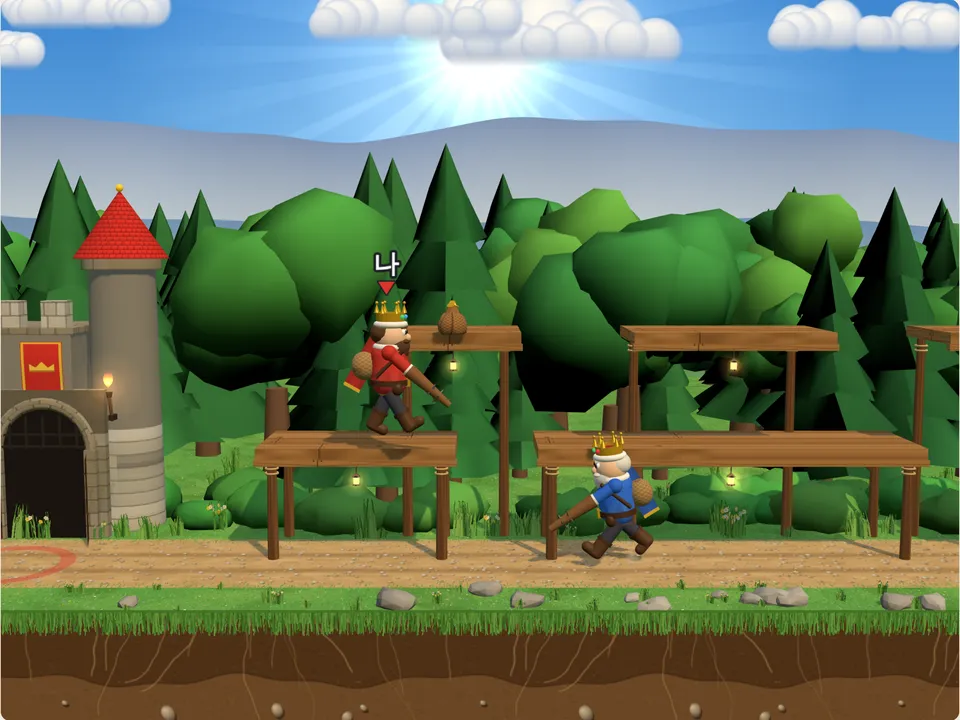
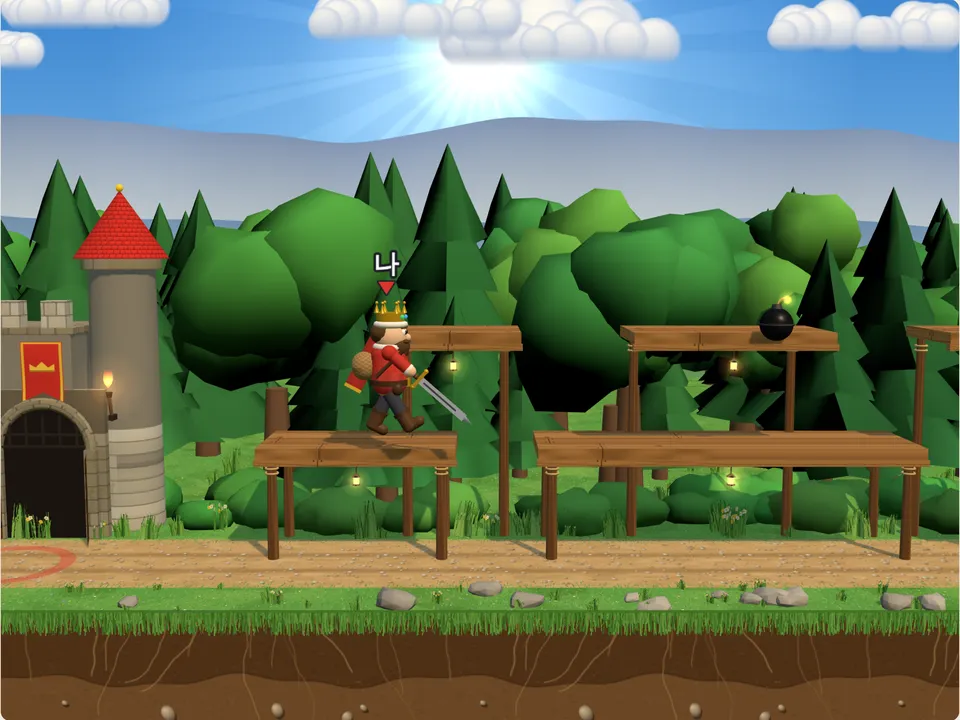
Gold raid: a sword in place of the club
Claude-Session: https://claude.ai/code/session_01Uedx1uYtd54DPXXtQh77nN

diff --git a/src/core/updates.ts b/src/core/updates.ts
@@ -12,7 +12,7 @@ const at = (text: string, full = false) => ({ text, full });
 export const UPDATES: UpdateDay[] = [
   {
     date: "2026-11-25",
-    items: [at("배드민턴 와이파이 여럿이(둘이)"), at("배드민턴: 손가락을 떼지 않고 누른 채로 빠르게 밀기만 해도 칩니다"), at("낚시: 찌를 물면 격렬하게 요동치고, 릴을 계속 빠르게 돌려야(화면에 원 그리기·스페이스 연타) 끌어올립니다"), at("낚시: 바다 낚시(전갱이부터 참치까지, 더 길고 거친 싸움), 호수는 낮에서 해질녘을 지나 밤으로, 낚싯대에 돌아가는 릴"), at("숫자 코드 와이파이: 처음에 모두 함께 패를 정리하고 배열 완료(조커를 받은 사람이 티 나지 않게)"), at("낚시: 호수에 개구리·가재, 바다에 장어·청새치·상어·고래"), at("낚시: 시간 제한과 난이도 없음, 바다 낚시는 흔들리는 낚싯배 위에서"), at("낚시: 바다도 낮에서 밤으로 하늘이 바뀌고, 물고기가 덜 자주 차고 나갑니다"), at("새 게임: 주차 요원 — 손님 차를 직접 몰아 빈칸에 대고, 돌아온 손님에게 출구까지 내어 주기(3분 근무, 주차장 3종)"), at("새 게임: 금화 쟁탈전 — 두 산적 왕이 떨어지는 금화와 보물을 모아 자기 성을 먼저 채우기(수레 털기, 몽둥이, 컴퓨터 대전 · 로컬 2인)"), at("슬롯 카: 컴퓨터도 가끔 과속으로 코스 이탈"), at("낚시: 흔한 물고기는 금방 딸려 오고 큰 물고기는 오래 걸림, 큰 물고기도 요동은 몇 번뿐"), at("배드민턴: 높이 뜬 셔틀콕이 더 빠르게 올라갔다 떨어집니다"), at("탁구: 내가 친 공은 아웃되지 않고, 친 뒤 라켓을 옆으로 움직여 공을 휘게 합니다(치는 순간 저절로 걸리던 스핀 없음)"), at("배드민턴: 아웃 없음(옆줄·뒷줄 안쪽으로, 서브도 맞는 코트로)"), at("탁구: 컴퓨터가 더 빨라져 옆으로 치거나 휜 공도 받아 냅니다"), at("새 게임: 훌라 — 같은 숫자·같은 무늬 묶음을 등록하고 붙여 먼저 손을 비우기(땡큐, 7 단독 등록, 한 번에 털면 훌라 두 배)"), at("새 게임: 룰렛 — 칩을 판에 걸고 휠을 돌리면 공이 굴러 떨어진 칸으로 승부", true), at("새 게임: 슬롯머신 — 레버를 끌어 당기면 릴 3개가 돌다 멈춤, 1·3·5라인, 환급률 95.4%", true), at("금화 쟁탈전이 훨씬 느긋해지고 골짜기가 길어졌어요. 화면이 내 산적을 따라가고, 위쪽 띠 지도에서 성과 상대 위치를 볼 수 있어요. 둘이서 멀리 떨어지면 화면이 반으로 나뉘어요"), at("주차 요원: 손님이 칸 번호 하나를 말풍선으로 알려 주고, 요원을 레버로 직접 움직여 탑승·하차 버튼으로 타고 내립니다"), at("금화 쟁탈전: 휴대폰은 레버로 달리고 위로 올려 점프, 골짜기가 35m로 짧아지고, 자루가 무거울수록 느려지며, 일어나면 바로 다시 맞을 수 있어요"), at("주차 요원: 두 번째 주차장은 밤의 햄버거 가게 주차장, 세 번째는 진짜 지하 주차장 배경으로 바뀌었어요(어두우면 차가 전조등을 켜요)"), at("금화 쟁탈전: 골짜기가 25m로 짧아지고, 하늘에서 보물 상자가 떨어지지 않으며, 금화가 덜 자주 떨어져요"), at("금화 쟁탈전: 골짜기가 20m로 더 짧아졌어요"), at("금화 쟁탈전: 낱개 금화가 사라지고 하늘에서는 돈주머니만 덜 자주 떨어지며, 수레는 한 판 동안 한쪽에서만 와요"), at("배드민턴: 셔틀콕 둘레의 빛나는 원을 없앴어요"), at("금화 쟁탈전 그래픽이 새로워졌어요: 오후의 하늘과 산맥, 바람에 흔들리는 나무와 풀, 횃불 켠 돌 성, 망토 두른 산적, 반짝이는 돈주머니, 불꽃 튀는 폭탄"), at("금화 쟁탈전: 컴퓨터가 떨어진 금화보다 내 자루를 먼저 털러 오고, 돈주머니는 금화 10, 하늘에서는 훨씬 드물게 떨어져요"), at("중력 축구: 천장이 없어져 공이 높이 날아가고(화면 위에 위치 표시), 전체가 더 느려지고, 골대가 점프해도 남을 만큼 높아졌어요")],
+    items: [at("배드민턴 와이파이 여럿이(둘이)"), at("배드민턴: 손가락을 떼지 않고 누른 채로 빠르게 밀기만 해도 칩니다"), at("낚시: 찌를 물면 격렬하게 요동치고, 릴을 계속 빠르게 돌려야(화면에 원 그리기·스페이스 연타) 끌어올립니다"), at("낚시: 바다 낚시(전갱이부터 참치까지, 더 길고 거친 싸움), 호수는 낮에서 해질녘을 지나 밤으로, 낚싯대에 돌아가는 릴"), at("숫자 코드 와이파이: 처음에 모두 함께 패를 정리하고 배열 완료(조커를 받은 사람이 티 나지 않게)"), at("낚시: 호수에 개구리·가재, 바다에 장어·청새치·상어·고래"), at("낚시: 시간 제한과 난이도 없음, 바다 낚시는 흔들리는 낚싯배 위에서"), at("낚시: 바다도 낮에서 밤으로 하늘이 바뀌고, 물고기가 덜 자주 차고 나갑니다"), at("새 게임: 주차 요원 — 손님 차를 직접 몰아 빈칸에 대고, 돌아온 손님에게 출구까지 내어 주기(3분 근무, 주차장 3종)"), at("새 게임: 금화 쟁탈전 — 두 산적 왕이 떨어지는 금화와 보물을 모아 자기 성을 먼저 채우기(수레 털기, 몽둥이, 컴퓨터 대전 · 로컬 2인)"), at("슬롯 카: 컴퓨터도 가끔 과속으로 코스 이탈"), at("낚시: 흔한 물고기는 금방 딸려 오고 큰 물고기는 오래 걸림, 큰 물고기도 요동은 몇 번뿐"), at("배드민턴: 높이 뜬 셔틀콕이 더 빠르게 올라갔다 떨어집니다"), at("탁구: 내가 친 공은 아웃되지 않고, 친 뒤 라켓을 옆으로 움직여 공을 휘게 합니다(치는 순간 저절로 걸리던 스핀 없음)"), at("배드민턴: 아웃 없음(옆줄·뒷줄 안쪽으로, 서브도 맞는 코트로)"), at("탁구: 컴퓨터가 더 빨라져 옆으로 치거나 휜 공도 받아 냅니다"), at("새 게임: 훌라 — 같은 숫자·같은 무늬 묶음을 등록하고 붙여 먼저 손을 비우기(땡큐, 7 단독 등록, 한 번에 털면 훌라 두 배)"), at("새 게임: 룰렛 — 칩을 판에 걸고 휠을 돌리면 공이 굴러 떨어진 칸으로 승부", true), at("새 게임: 슬롯머신 — 레버를 끌어 당기면 릴 3개가 돌다 멈춤, 1·3·5라인, 환급률 95.4%", true), at("금화 쟁탈전이 훨씬 느긋해지고 골짜기가 길어졌어요. 화면이 내 산적을 따라가고, 위쪽 띠 지도에서 성과 상대 위치를 볼 수 있어요. 둘이서 멀리 떨어지면 화면이 반으로 나뉘어요"), at("주차 요원: 손님이 칸 번호 하나를 말풍선으로 알려 주고, 요원을 레버로 직접 움직여 탑승·하차 버튼으로 타고 내립니다"), at("금화 쟁탈전: 휴대폰은 레버로 달리고 위로 올려 점프, 골짜기가 35m로 짧아지고, 자루가 무거울수록 느려지며, 일어나면 바로 다시 맞을 수 있어요"), at("주차 요원: 두 번째 주차장은 밤의 햄버거 가게 주차장, 세 번째는 진짜 지하 주차장 배경으로 바뀌었어요(어두우면 차가 전조등을 켜요)"), at("금화 쟁탈전: 골짜기가 25m로 짧아지고, 하늘에서 보물 상자가 떨어지지 않으며, 금화가 덜 자주 떨어져요"), at("금화 쟁탈전: 골짜기가 20m로 더 짧아졌어요"), at("금화 쟁탈전: 낱개 금화가 사라지고 하늘에서는 돈주머니만 덜 자주 떨어지며, 수레는 한 판 동안 한쪽에서만 와요"), at("배드민턴: 셔틀콕 둘레의 빛나는 원을 없앴어요"), at("금화 쟁탈전 그래픽이 새로워졌어요: 오후의 하늘과 산맥, 바람에 흔들리는 나무와 풀, 횃불 켠 돌 성, 망토 두른 산적, 반짝이는 돈주머니, 불꽃 튀는 폭탄"), at("금화 쟁탈전: 컴퓨터가 떨어진 금화보다 내 자루를 먼저 털러 오고, 돈주머니는 금화 10, 하늘에서는 훨씬 드물게 떨어져요"), at("중력 축구: 천장이 없어져 공이 높이 날아가고(화면 위에 위치 표시), 전체가 더 느려지고, 골대가 점프해도 남을 만큼 높아졌어요"), at("금화 쟁탈전: 산적 왕이 몽둥이 대신 검을 휘둘러요")],
   },
   {
     date: "2026-11-24",

diff --git a/src/games/goldraid/config.ts b/src/games/goldraid/config.ts
@@ -14,7 +14,7 @@ export const goldRaidConfig: PointConfig<State> = {
   noPanel: true,
   view: (host, quality, _variant, mode, level) => new GoldRaidView(host, quality, mode === "local", level),
   colors: GOLD_RAID_COLORS,
-  // Coins and gems taken, a chest, gold poured into the treasury, the club through the air and on a head, a bomb, the
+  // Coins and gems taken, a chest, gold poured into the treasury, the sword through the air and on a head, a bomb, the
   // cart's bells and its boards breaking, the blow on a gate.
   knock: ((sound, kind: string, strength) => {
     if (kind === "coin") sound.coin(strength);
@@ -29,6 +29,8 @@ export const goldRaidConfig: PointConfig<State> = {
     } else if (kind === "jump") sound.hop();
     else if (kind === "swing") sound.swish();
     else if (kind === "hit") {
+      // The sword's blow: a ring of steel over the knock (the user asked for a sword in place of the club).
+      sound.postRing(Math.min(1, 0.5 + strength * 0.5));
       sound.bonk();
       sound.chips();
     } else if (kind === "boom") sound.explosion();
@@ -59,7 +61,7 @@ export const goldRaidConfig: PointConfig<State> = {
   name: "금화 쟁탈전",
   english: "Gold Raid",
   number: "NO. 113 — FILL YOUR CASTLE",
-  intro: `<p>두 산적 왕이 골짜기에서 금화를 다툽니다.<br>하늘에서 떨어지는 돈주머니를 자루에 담아 내 성문으로 나르세요. 지나가는 대상의 수레를 털고, 상대를 몽둥이로 쳐서 금화를 떨어뜨리게 할 수도 있습니다. 내 성을 먼저 채우면 이깁니다.</p>`,
+  intro: `<p>두 산적 왕이 골짜기에서 금화를 다툽니다.<br>하늘에서 떨어지는 돈주머니를 자루에 담아 내 성문으로 나르세요. 지나가는 대상의 수레를 털고, 상대를 검으로 쳐서 금화를 떨어뜨리게 할 수도 있습니다. 내 성을 먼저 채우면 이깁니다.</p>`,
   meta: "컴퓨터 대전 · 로컬 2인 · 실시간",
   art: `<div class="pg-mini"><i></i><i></i><i></i></div><span>FILL YOUR CASTLE</span>`,
   artClass: "foosball-art",
@@ -88,9 +90,9 @@ export const goldRaidConfig: PointConfig<State> = {
       ),
     ) +
     part(
-      "몽둥이",
+      "검",
       table(
-        ["상대를 치기", `가까이서 치면 상대가 잠깐 기절하고 자루의 ${percent(DROP_SHARE)}를 길에 흘립니다('강탈!'). 흘린 금화는 먼저 줍는 사람이 임자입니다. 쓰러져 있는 동안은 다시 맞지 않고 폭탄에도 휘말리지 않지만, 일어나면 곧바로 다시 맞을 수 있습니다. 대신 친 쪽은 몽둥이를 다시 들기까지 상대가 일어나는 것보다 조금 더 걸립니다.`],
+        ["상대를 치기", `가까이서 치면 상대가 잠깐 기절하고 자루의 ${percent(DROP_SHARE)}를 길에 흘립니다('강탈!'). 흘린 금화는 먼저 줍는 사람이 임자입니다. 쓰러져 있는 동안은 다시 맞지 않고 폭탄에도 휘말리지 않지만, 일어나면 곧바로 다시 맞을 수 있습니다. 대신 친 쪽은 검을 다시 휘두르기까지 상대가 일어나는 것보다 조금 더 걸립니다.`],
         ["대상의 수레", `가끔 '대상 행렬!'과 함께 방울 소리를 내며 소 수레가 길을 지나갑니다. 한 판 동안 수레는 늘 같은 쪽 끝에서 옵니다(어느 쪽인지는 판마다 정해짐). 금화 ${CART.gold}을 싣고 있고, 한 번 칠 때마다 ${CART.shed}씩 떨어집니다. ${CART.blows}번 치면 수레가 부서져 남은 금화가 모두 쏟아집니다.`],
         ["상대의 성문", `상대 성문을 치면 금고에서 금화 ${RAID}을 꺼내 옵니다('성문 습격!'). 대신 성에서 불단지가 떨어지니 얼른 피하세요. 성문은 잠시 잠깁니다.`],
       ),
@@ -112,8 +114,8 @@ export const goldRaidConfig: PointConfig<State> = {
       table(
         ["컴퓨터 대전", "내가 빨강, 컴퓨터가 파랑입니다."],
         ["로컬 2인", "한 화면(한 키보드, 또는 한 휴대폰의 양쪽 버튼)에서 둘이 겨룹니다."],
-        ["쉬움", "컴퓨터가 느리게 반응하고 폭탄을 잘 피하지 못합니다. 내 자루에 금화가 있으면 줍기보다 먼저 쫓아와 몽둥이로 칩니다."],
-        ["보통", "내 자루에 금화가 있으면 어디서든 먼저 쫓아와 몽둥이로 치고, 흘린 금화를 주워 갑니다. 발판에 올라가 줍고 폭탄을 피합니다."],
+        ["쉬움", "컴퓨터가 느리게 반응하고 폭탄을 잘 피하지 못합니다. 내 자루에 금화가 있으면 줍기보다 먼저 쫓아와 검으로 칩니다."],
+        ["보통", "내 자루에 금화가 있으면 어디서든 먼저 쫓아와 검으로 치고, 흘린 금화를 주워 갑니다. 발판에 올라가 줍고 폭탄을 피합니다."],
         ["어려움", "빠르게 쫓아와 내 자루를 털고, 수레를 쫓으며, 내 금고가 차면 성문을 습격하기도 합니다."],
       ),
     ) +

diff --git a/src/games/goldraid/view.ts b/src/games/goldraid/view.ts
@@ -48,7 +48,7 @@ const lerp = (a: number, b: number, t: number) => a + (b - a) * t;
 const DRAWN = 1.22;
 
 /**
- * 금화 쟁탈전: the valley of `valley.ts` seen from the side, two bandit kings (jointed figures with a crown, a club and
+ * 금화 쟁탈전: the valley of `valley.ts` seen from the side, two bandit kings (jointed figures with a crown, a sword and
  * a sack that swells as it fills), the loot that falls (coins, pouches, gems, chests, bombs), the merchant's ox cart,
  * and the two castles whose towers fill with gold. The view steps the valley in real time (`sim.ts`) and reports
  * deposits, robberies and the clock's end as moves; a board over the canvas shows both treasuries and sacks.
@@ -337,7 +337,7 @@ export class GoldRaidView extends TableView<State> {
     stick.classList.toggle("gr-go-r", run > 0);
     stick.classList.toggle("gr-go-u", y > LEVER_JUMP);
   }
-  /** A bandit king: boots and legs, a tunic in its side's colour, a bearded head under a gold crown, a club and a sack. */
+  /** A bandit king: boots and legs, a tunic in its side's colour, a bearded head under a gold crown, a sword and a sack. */
   private makeFigure(own: Own, side: 0 | 1): Figure {
     const m = (color: string, roughness = 0.7, extra: T.MeshStandardMaterialParameters = {}) => this.standard({ color, roughness, ...extra }),
       colour = new T.Color(SIDE_COLORS[side]),
@@ -492,22 +492,27 @@ export class GoldRaidView extends TableView<State> {
     part(cyl, ermine, 0, -0.26, 0, 0.065, 0.03, 0.065, back);
     part(ball, skin, 0, -0.3, 0, 0.06, 0.06, 0.06, back);
     lean.add(back);
-    // The club arm, toward the eye: a knotty club bound with leather, iron studs in its head.
+    // The sword arm, toward the eye (the user asked for a sword in place of the club): a gold pommel over a grip bound in
+    // leather, a gold crossguard, a long bright blade with a dark fuller down its middle and a pointed tip.
     const arm = new T.Group();
     arm.position.set(0.02, 0.92, 0.22);
     part(own(new T.SphereGeometry(1, 12, 10)), sleeve, 0, 0, 0, 0.085, 0.085, 0.085, arm);
     part(cyl, sleeve, 0, -0.14, 0, 0.065, 0.28, 0.065, arm);
     part(cyl, ermine, 0, -0.27, 0, 0.07, 0.03, 0.07, arm);
     part(ball, skin, 0, -0.3, 0, 0.065, 0.065, 0.065, arm);
-    part(own(new T.CylinderGeometry(0.08, 0.035, 0.58, 10)), wood, 0, -0.57, 0, 1, 1, 1, arm);
-    for (const y of [-0.38, -0.44]) part(cyl, leather, 0, y, 0, 0.045, 0.025, 0.045, arm);
-    const stud = own(new T.ConeGeometry(0.018, 0.05, 5));
-    for (let k = 0; k < 8; k++) {
-      const a = (k / 8) * Math.PI * 2,
-        y = -0.7 + (k % 2) * 0.1,
-        s = part(stud, steel, Math.cos(a) * 0.072, y, Math.sin(a) * 0.072, 1, 1, 1, arm);
-      s.rotation.set(Math.sin(a) * (Math.PI / 2), 0, -Math.cos(a) * (Math.PI / 2));
-    }
+    const blade = m("#e8edf5", 0.22, { metalness: 0.6, emissive: "#6a7484", emissiveIntensity: 0.45 }),
+      fuller = m("#8d96a6", 0.3, { metalness: 0.8 });
+    part(ball, gold, 0, -0.22, 0, 0.035, 0.035, 0.035, arm);
+    part(cyl, leather, 0, -0.33, 0, 0.026, 0.17, 0.026, arm);
+    for (const y of [-0.28, -0.33, -0.38]) part(cyl, wood, 0, y, 0, 0.029, 0.012, 0.029, arm);
+    part(own(new T.BoxGeometry(1, 1, 1)), gold, 0, -0.43, 0, 0.22, 0.04, 0.05, arm);
+    for (const x of [-0.11, 0.11]) part(ball, gold, x, -0.43, 0, 0.028, 0.028, 0.028, arm);
+    // The blade's flat faces the eye (the swing turns it in the picture's plane).
+    part(own(new T.BoxGeometry(1, 1, 1)), blade, 0, -0.76, 0, 0.085, 0.62, 0.018, arm);
+    part(own(new T.BoxGeometry(1, 1, 1)), fuller, 0, -0.72, 0, 0.018, 0.46, 0.022, arm);
+    const tip = part(own(new T.ConeGeometry(0.053, 0.13, 4)), blade, 0, -1.13, 0, 1, 1, 1, arm);
+    tip.rotation.set(Math.PI, Math.PI / 4, 0);
+    tip.scale.set(0.85, 1, 0.24);
     lean.add(arm);
     // Stars round its head while it is stunned.
     const stars = new T.Group(),
@@ -1016,7 +1021,7 @@ export class GoldRaidView extends TableView<State> {
     f.lean.position.y = running ? Math.abs(Math.sin(phase)) * 0.05 : 0;
     // A heavy sack bows it forward (and slows it: `runOf`).
     f.lean.rotation.z = stunned ? 0.55 + Math.sin(t * 20) * 0.08 : (running ? -0.12 : 0) - 0.16 * (b.carry / CAP);
-    // The club: at rest held forward and down; a swing raises it over the head and brings it down.
+    // The sword: at rest held forward and down; a swing raises it over the head and brings it down.
     const p = b.swing < 0 ? -1 : b.swing / SWING;
     f.arm.rotation.z = p < 0 ? 0.85 + (running ? Math.sin(phase) * 0.25 : 0) : p < 0.3 ? lerp(0.85, 3.2, p / 0.3) : lerp(3.2, 1.0, (p - 0.3) / 0.7);
     // The other arm swings against the legs; in the air both are thrown up a little; dazed it hangs.

diff --git a/AGENTS.md b/AGENTS.md
@@ -371,5 +371,5 @@
 - Slot car track and the computer's flights (the user asked: "트랙 깨진 부분들 수정하고, 컴퓨터들도 빠르게 달리다가 코스 이탈하는 경우도 나오게"): a banked curve now turns about its inner edge (`laneAt` raises the surface by sin(bank) × (`WIDEST_HALF` − side × d)), so no edge sinks into the table (the grand circuit's banked turns showed torn inner edges); the pillars' beams run from foot to foot, tilted with the track (level, their ends stuck up through banked curves as white bars); the sun's shadow has a small `bias`. `LEVELS` gained `push` (per curve per lap: easy 0.07, normal 0.06, hard 0.045) and `over` (1.3–1.55 × the safe speed): on such a curve the driver aims over the grip and keeps its foot down when the tail steps out, so it often flies off: about 0.09 / 0.05 / 0.03 flights per car-lap (before: 0.04 / 0 / 0). Tests: `tests/slotcar.test.ts` (every level flies off now and then, not often, easy most).
 - The finale stays through taps elsewhere (the user asked: "맨 마지막 최종 승리, 패배 메시지 후 다른 곳을 눌러도 그 메시지가 꺼지지 않게"): `finale` removes itself only when `#move-count`'s text really changes (a new game, an undo); the screens rewrite the same count on every redraw, and a tap after the end did that, taking the final word away. Test: `tests/e2e/nim.spec.ts` (taps on the table after the end leave it).
 - Valet parking (`valet/`, 주차 요원, id `valet-parking`, 아케이드게임, NO. 112, both editions; the user asked for a game of the Park a Lot kind, made as our own: name, art and lots are ours) runs like the other real-time games (`live`, `pausable`, `noUndo`, `noPanel`, stages 1/2/3 = 마트·사선·지하 주차장, `newGameLabel` 주차장 선택, end word 근무 종료 in `chrome.ts`). `sim.ts` (free of Three.js and DOM, slices of `DT` 1/120 s): `lotOf(stage)` (bays with `angle`/`w`/`l`, pillars, blocks with the booth first, entrance, exit zone, arrival `gap`, `patience`, `returnPatience`, `stay`), a kinematic bicycle car (`WHEELBASE`, `MAX_STEER`, heading from +x toward +z so that steering right turns clockwise on the screen), collisions as boxes against kerbs, pillars, blocks and cars (a blocked slice keeps the pose and throws the car back; a knock over `BUMP_FROM` is a fined bump), `bayAt`, and `step(world, input)` returning happenings (`arrive`, `take`, `bump`, `parked`, `ask`, `returned`, `angry`, `end`). Money is in hundreds of won: `PAY` 20, `TIP` up to 15 by the patience left, `TIDY` up to 10, `BUMP_FINE` 5, `ANGRY_FINE` 15, `LATE_PAY` 10; a shift is `SHIFT` 180 s. `rules.ts` turns happenings into moves (`parkedMove`, `returnedMove`, `BUMP`, `ANGRY`, `END`). `view.ts` owns the world, steps it by real time (at most 0.1 s a frame), draws everything in code, and shifts the lot left on a wide low screen (`offset`) so that the pedals lie beside it; the HUD and the buttons are DOM over the canvas (`.vp-*` in `style.css`, hidden under `data-capture`). `sound.ts` gained `carEngine()` and `horn()`. No best score is stored and there are no speed settings. For tests the canvas carries `data-phase`, `data-car`, `data-job`, `data-from`, `data-gear`, `data-time`, `data-money`, `data-counts`, `data-free`, `data-exit`. `tests/valet-driver.ts` is a careful driver with no imports (`driver`) and its in-page loop (`atTheWheel`, by key events alone): the unit tests, the browser spec and `scripts/capture-thumbs.mjs` all drive with it, so keep it self-contained. It cannot drive the third lot (pillars). Tests: `tests/valet-parking.test.ts`, `tests/e2e/valet-parking.spec.ts` (the whole shift is `@alone`, desktop only, about five minutes under software drawing). Each customer names one bay (`Car.want`, drawn when the valet first gets in, among free bays no other waiting customer named and no car stands in; -1 if none, then any free bay will do). Only that bay counts: `alight()` parks and pays only when the car stands still (`STILL`) rightly in it. In another bay, or askew in its own, it returns `wrong {bay, at}` and keeps the valet at the wheel; elsewhere it returns `out` and leaves the car standing (still `waiting`). The valet walks: `Input.walkX/walkZ` (`WALK` 6 m/s, body radius `BODY` 0.3, pushed out of kerbs, pillars, blocks and cars by `shove`). `board()` takes the nearest `waiting`/`requested` car within `REACH` 1.2 (`reachable`), emitting `take {car, bay}`. A `requested` car is still handed over in the exit zone, and the valet steps out there. A customer leaves on running out of patience only if its car was never `taken`. There is no auto-run, `take`/`nextJob` or `SETTLE` any more. The first lot is arrivals every 19–25 s, patience 60 s: keep it gentle. View: lever `.vp-stick` at the lower left (walks; steers at the wheel), `.vp-side` at the lower right (`.vp-act` 탑승/하차 = E/Enter, with the pedals and `.vp-gear` only under `.vp-driving`). The customer's bubble shows over the car for `SAYING` s, and the named bay glows with a number badge. Extra canvas data: `data-valet`, `data-near`, `data-takes`, `data-bay` (the named bay's number), `data-want` (index and place for the driver), `data-said`. The driver's goal `"walk"` takes the valet to a car (out of a bay row by `mem.out`, to the bay's mouth, then in); `atTheWheel` presses E to get in and out. The 2× thumbnail capture walks the valet and may take about ten minutes on a loaded machine; raise the wait in `scripts/capture-thumbs.mjs` if it times out. Each lot has its own setting, laid by `scenery.ts`: `dress(stage, lot, group)` builds everything round the bays (lot 1 the mart by day, as before; lot 2 the burger restaurant "달빛버거", a made-up brand, at night; lot 3 a car park under the ground, drawn cut open) and returns a `Look` (sky and shadow light, floor, line and kerb materials, pillars, a `room` reflected on a real graphics card, and a per-frame `tick`). The view keeps the bays, the booth, the barriers and the marks, and the canvas tells tests `data-scene`. In the dark (`Look.dark`) a running car has its headlights on (`beam`, `flares`). Keep the marks (bubble, badge, bay glow, the valet's ring) unlit so they read on dark lots, and keep scenery off the bays and away from the screen's lower corners, where the controls are.
-- 금화 쟁탈전 (`goldraid/`, id `gold-raid`, 아케이드게임, NO. 113, both editions; the user asked for a game of the Bandit Kings kind, made as our own) is a real-time arcade game for two (computer or two at one screen; no Wi-Fi yet). `sim.ts` is the whole valley, free of Three.js and the DOM: fixed slices of 1/120 s, deterministic for a seed, stepped with one plain `Input {x, jump, strike}` per side (`jump` and `strike` are presses in that slice), which is what a Wi-Fi version would send. `think(world, side, level)` is the computer (it defends its gate only when the rival's club is up there or the gate was just struck). Loot falls in mirrored pairs so neither side is favoured. `rules.ts` only records what the view reports as moves: a deposit (`depositMove`), a gate robbed (`raidedMove`) and the clock's end (`TIME`); the variant is the castle's size ("60", "100", "150") or "time" (three minutes, the fuller castle wins, equal is a draw). `view.ts` extends `TableView` but sets its own camera in `resize()` from `goldRaidFrame` (`layout.ts`), which lifts the road clear of a phone's buttons. The figures are drawn `DRAWN` (1.22) times larger than the bodies the sim reckons with, and the ledges stand behind the line the bandits run on so nobody is hidden. The canvas tells tests `data-men`, `data-carry`, `data-gold`, `data-jumps`, `data-swings`, `data-loot`, `data-cart`, `data-time`. Key handlers are on `document` with `e.code`; a direction key tapped and released inside one frame is lost (jump and strike presses are counted and never lost), so browser tests hold a key until the bandit has moved. The thumbnail is cut from the middle of the captured picture, since the valley is wide. Tests: `tests/gold-raid.test.ts`, `tests/e2e/gold-raid.spec.ts`. Gold raid is slow and long on purpose: the user asked for a much slower game and a valley where both castles need not be in view. The pace was halved by scaling every speed and time from the earlier numbers (RUN 5.6 → 2.8, jump airtime 0.78 → 1.2 s at the same 2 m height), and the valley was 50 m, then 35 m, then 25 m, and is now 20 m gate to gate (GATE 10, 6 mirrored ledges); the user asked for it shorter each time. Only pouches and bombs fall from the sky (coin, gem and chest shares are 0; the user asked for coins to go and pouches alone). A pouch holds 10 (the user asked), they fall seldom, every 5–9 s (asked again, much less often), and `spill` throws gold out as pouches of 10 (the last holding the rest), never coins. The computer at every level goes first for the other's sack (the user asked: robbing before picking up): `strike` and `chase` are 1 and `chaseFar` is the whole valley, so whenever the other carries anything it is chased (unless the computer is going home or its club is cooling) and loot is picked up only when the other's sack is empty; keep the unit test of that. Every cart of a match comes from the same end, drawn at the start (`cartFrom` no longer alternates; the user asked for one side only). With gold in lumps, hard beats easy at least 9 of the unit test's 12. Gold raid's look (the user asked for a graphics upgrade, no size limit): `valley.ts` builds the scenery with canvas textures from `paint.ts` (normal maps from painted heights). Trees, bushes and stones are each one merged vertex-coloured mesh, and tufts are an instanced mesh; the wind is a vertex-shader sway through `windy()`, driven by `Valley.tick(t, dt)`, which also waves the flags and banners and flickers the flames. `fx.ts` is a sprite pool for dust, smoke, fire, glints, stars and chips. The view decides `rich = capable()` once: relief maps, torch and bomb lights, soft shadows, more tufts and tree shadows only on a graphics card; software drawing (the browser tests) keeps the plain path. Keep new scenery merged or instanced so the draw count stays low. At the 2× software scale the gold-raid canvas screenshot in `scripts/capture-thumbs.mjs` can exceed Playwright's default timeout; give it a longer `timeout` if a capture fails. A phone held sideways sees all of it, so its eye hardly moves and two at one screen never split there (a desktop window may still split when the two stand at the far ends); browser tests accept a bandit standing on a low ledge near its gate. Never add a speed setting: change the sim's own numbers. Framing lives in `layout.ts` as pure functions the unit tests use. `goldRaidFrame` gives a view's shape. `aimX` and `follow` move the eye after my bandit, clamped to `END`. `pairView` decides, for two at one screen, between one shared view (zoom up to `ZOOM_MOST`) and a left/right split with hysteresis (`MERGE`). The view draws the split through `TableView.drawPicture()`, which a view may override. The strip under the board (`.gr-map`) shows the whole valley. The computer keeps its chosen loot (`STEADY`), weighs the long way home by its level's `thrift`, and waits out lit bombs on its way. Keep the unit test that the computer finishes a match at every level and that hard beats easy. A bandit's top speed is `runOf(carry)` (`LOAD_SLOW` 0.4: a full sack runs at 60%), and the computer reckons with it. A bandit is protected only while stunned (no club hit, no bomb). There is no `safe` time after getting up: the user asked for that. A blow on a bandit sets the striker's `cool` to `HIT_COOL` (stun + 0.45 s), so it cannot stun-lock; keep the unit test that the next blow lands once the victim stands. Touch screens drive a bandit by a lever (`.gr-stick`; `hands.ts`: `Hand.lean`, `leverRun` with dead zone `LEVER_DEAD`, one jump per lean above `LEVER_JUMP`, re-armed under `LEVER_REARM`). Held keys outrank the lever. On a touch screen the road sits at 0.68 of the canvas so the lever stays below the bandits.
+- 금화 쟁탈전 (`goldraid/`, id `gold-raid`, 아케이드게임, NO. 113, both editions; the user asked for a game of the Bandit Kings kind, made as our own) is a real-time arcade game for two (computer or two at one screen; no Wi-Fi yet). `sim.ts` is the whole valley, free of Three.js and the DOM: fixed slices of 1/120 s, deterministic for a seed, stepped with one plain `Input {x, jump, strike}` per side (`jump` and `strike` are presses in that slice), which is what a Wi-Fi version would send. `think(world, side, level)` is the computer (it defends its gate only when the rival's club is up there or the gate was just struck). Loot falls in mirrored pairs so neither side is favoured. `rules.ts` only records what the view reports as moves: a deposit (`depositMove`), a gate robbed (`raidedMove`) and the clock's end (`TIME`); the variant is the castle's size ("60", "100", "150") or "time" (three minutes, the fuller castle wins, equal is a draw). `view.ts` extends `TableView` but sets its own camera in `resize()` from `goldRaidFrame` (`layout.ts`), which lifts the road clear of a phone's buttons. The figures are drawn `DRAWN` (1.22) times larger than the bodies the sim reckons with, and the ledges stand behind the line the bandits run on so nobody is hidden. The canvas tells tests `data-men`, `data-carry`, `data-gold`, `data-jumps`, `data-swings`, `data-loot`, `data-cart`, `data-time`. Key handlers are on `document` with `e.code`; a direction key tapped and released inside one frame is lost (jump and strike presses are counted and never lost), so browser tests hold a key until the bandit has moved. The thumbnail is cut from the middle of the captured picture, since the valley is wide. Tests: `tests/gold-raid.test.ts`, `tests/e2e/gold-raid.spec.ts`. Gold raid is slow and long on purpose: the user asked for a much slower game and a valley where both castles need not be in view. The pace was halved by scaling every speed and time from the earlier numbers (RUN 5.6 → 2.8, jump airtime 0.78 → 1.2 s at the same 2 m height), and the valley was 50 m, then 35 m, then 25 m, and is now 20 m gate to gate (GATE 10, 6 mirrored ledges); the user asked for it shorter each time. Only pouches and bombs fall from the sky (coin, gem and chest shares are 0; the user asked for coins to go and pouches alone). A pouch holds 10 (the user asked), they fall seldom, every 5–9 s (asked again, much less often), and `spill` throws gold out as pouches of 10 (the last holding the rest), never coins. The computer at every level goes first for the other's sack (the user asked: robbing before picking up): `strike` and `chase` are 1 and `chaseFar` is the whole valley, so whenever the other carries anything it is chased (unless the computer is going home or its club is cooling) and loot is picked up only when the other's sack is empty; keep the unit test of that. Every cart of a match comes from the same end, drawn at the start (`cartFrom` no longer alternates; the user asked for one side only). With gold in lumps, hard beats easy at least 9 of the unit test's 12. Each bandit carries a sword, not a club (the user asked): a gold pommel and crossguard, a leather grip, a bright blade with a fuller whose flat faces the eye, and a hit rings steel (`Sound.postRing` over the knock); the words say 검. Gold raid's look (the user asked for a graphics upgrade, no size limit): `valley.ts` builds the scenery with canvas textures from `paint.ts` (normal maps from painted heights). Trees, bushes and stones are each one merged vertex-coloured mesh, and tufts are an instanced mesh; the wind is a vertex-shader sway through `windy()`, driven by `Valley.tick(t, dt)`, which also waves the flags and banners and flickers the flames. `fx.ts` is a sprite pool for dust, smoke, fire, glints, stars and chips. The view decides `rich = capable()` once: relief maps, torch and bomb lights, soft shadows, more tufts and tree shadows only on a graphics card; software drawing (the browser tests) keeps the plain path. Keep new scenery merged or instanced so the draw count stays low. At the 2× software scale the gold-raid canvas screenshot in `scripts/capture-thumbs.mjs` can exceed Playwright's default timeout; give it a longer `timeout` if a capture fails. A phone held sideways sees all of it, so its eye hardly moves and two at one screen never split there (a desktop window may still split when the two stand at the far ends); browser tests accept a bandit standing on a low ledge near its gate. Never add a speed setting: change the sim's own numbers. Framing lives in `layout.ts` as pure functions the unit tests use. `goldRaidFrame` gives a view's shape. `aimX` and `follow` move the eye after my bandit, clamped to `END`. `pairView` decides, for two at one screen, between one shared view (zoom up to `ZOOM_MOST`) and a left/right split with hysteresis (`MERGE`). The view draws the split through `TableView.drawPicture()`, which a view may override. The strip under the board (`.gr-map`) shows the whole valley. The computer keeps its chosen loot (`STEADY`), weighs the long way home by its level's `thrift`, and waits out lit bombs on its way. Keep the unit test that the computer finishes a match at every level and that hard beats easy. A bandit's top speed is `runOf(carry)` (`LOAD_SLOW` 0.4: a full sack runs at 60%), and the computer reckons with it. A bandit is protected only while stunned (no club hit, no bomb). There is no `safe` time after getting up: the user asked for that. A blow on a bandit sets the striker's `cool` to `HIT_COOL` (stun + 0.45 s), so it cannot stun-lock; keep the unit test that the next blow lands once the victim stands. Touch screens drive a bandit by a lever (`.gr-stick`; `hands.ts`: `Hand.lean`, `leverRun` with dead zone `LEVER_DEAD`, one jump per lean above `LEVER_JUMP`, re-armed under `LEVER_REARM`). Held keys outrank the lever. On a touch screen the road sits at 0.68 of the canvas so the lever stays below the bandits.
 - With these two, `tests/e2e/arcade.spec.ts` counts 18 arcade games; a new arcade game must be added to its list and count.

diff --git a/README.md b/README.md
@@ -1135,10 +1135,10 @@ npm run build:html
 - 하늘에서는 돈주머니(금화 10)와 폭탄만 좌우 대칭으로, 5~9초에 하나씩 드물게 떨어집니다(낱개 금화·보석·보물 상자는 없음). 맞거나 수레를 털어 흘린 금화도 돈주머니로 떨어집니다(마지막 주머니에는 남은 만큼). 몸이 닿으면 자루에 담기고(최대 20), 내 성문 앞 고리에 서면 금고로 들어갑니다.
 - 성을 먼저 채우면(60 · 100 · 150 중 선택) 이깁니다. 3분 판은 시간이 끝났을 때 더 많이 모은 쪽이 이기고, 같으면 무승부입니다.
 - 폭탄은 닿으면 곧바로, 땅에 놓이면 잠시 뒤 터집니다. 휘말리면 기절하고 자루의 절반을 흘립니다.
-- 몽둥이: 상대를 치면 자루의 40%를 떨어뜨립니다('강탈!'). 지나가는 대상의 소 수레('대상 행렬!', 한 판 동안 늘 같은 쪽 끝에서 옴 — 어느 쪽인지는 판마다 정해짐)는 칠 때마다 금화 3, 다섯 번째에 부서져 전부 쏟아집니다. 상대 성문을 치면 금고에서 2를 꺼내지만('성문 습격!') 불단지가 떨어집니다.
+- 검: 상대를 치면 자루의 40%를 떨어뜨립니다('강탈!'). 지나가는 대상의 소 수레('대상 행렬!', 한 판 동안 늘 같은 쪽 끝에서 옴 — 어느 쪽인지는 판마다 정해짐)는 칠 때마다 금화 3, 다섯 번째에 부서져 전부 쏟아집니다. 상대 성문을 치면 금고에서 2를 꺼내지만('성문 습격!') 불단지가 떨어집니다.
 - 조작: 1P A D 달리기 · W 점프 · S 또는 F 치기, 2P ← → · ↑ · ↓ 또는 /. 컴퓨터 대전에서는 두 묶음 모두 내 산적입니다. 터치 화면은 왼쪽 아래 **레버**: 옆으로 밀면 달리고(많이 밀수록 빨리, 가운데 조금은 멈춤), 위로 올리면 점프합니다(올린 채로는 한 번만, 다시 뛰려면 내렸다 올림). 오른쪽 아래 치기 버튼. 둘이서는 화면 양쪽 끝에 각자의 레버와 그 안쪽에 치기 버튼이 있고, 두 레버를 함께 움직일 수 있습니다.
-- 컴퓨터 레벨: 어느 레벨이든 내 자루에 금화가 있으면 떨어진 금화를 줍기보다 먼저 골짜기 어디서든 쫓아와 몽둥이로 쳐서 털고, 흘린 돈주머니를 주워 갑니다(내 자루가 비었을 때만 줍기). 쉬움(느리고 폭탄을 잘 못 피함), 보통(발판에 오르고 폭탄을 피함), 어려움(빠르고, 수레를 쫓고 성문도 습격). 와이파이 대전은 아직 없습니다.
+- 컴퓨터 레벨: 어느 레벨이든 내 자루에 금화가 있으면 떨어진 금화를 줍기보다 먼저 골짜기 어디서든 쫓아와 검으로 쳐서 털고, 흘린 돈주머니를 주워 갑니다(내 자루가 비었을 때만 줍기). 쉬움(느리고 폭탄을 잘 못 피함), 보통(발판에 오르고 폭탄을 피함), 어려움(빠르고, 수레를 쫓고 성문도 습격). 와이파이 대전은 아직 없습니다.
 - 골짜기는 성문 사이 20m(나무 발판 6개)이고 게임 속도는 처음의 절반입니다(빈손일 때 초속 2.8m, 점프는 1.2초 동안 떠 있음). 휴대폰 가로 화면에서는 골짜기가 다 보이고, 데스크톱에서는 대부분이 보이며 화면이 내 산적을 따라갑니다. 점수판 아래 띠 지도에 두 성·두 산적·수레와 지금 보이는 곳이 나옵니다. 둘이서 할 때는 한 화면(멀어질수록 최대 1.45배까지 넓게)에 함께 보이고, 좁은 데스크톱 창에서 아주 멀어지면 화면이 좌우로 나뉩니다. 하늘에서는 5~9초마다 하나씩(좌우 한 쌍) 떨어지고, 열에 여덟은 돈주머니(금화 10), 둘은 폭탄입니다. 컴퓨터(보통)끼리 겨루면 금화 60 판이 약 1분 30초, 100 판이 약 2분 30초, 150 판이 약 3분 30초 걸립니다.
 - 무게: 자루가 무거울수록 느려집니다. 빈손이면 초속 2.8m, 금화 20이 꽉 차면 그 60%로 달리고 몸도 앞으로 숙여집니다. 컴퓨터도 무거울 때의 걸음을 셈해 집으로 향합니다.
-- 기절과 무적: 몽둥이에 맞거나 폭탄에 휘말려 쓰러져 있는 동안만 다시 맞지 않고 폭탄에도 휘말리지 않습니다. 일어나면 곧바로 다시 맞을 수 있습니다(일어난 뒤 무적 시간 없음). 대신 상대를 친 쪽은 몽둥이를 다시 들기까지 2초 남짓(상대가 쓰러져 있는 1.6초보다 0.45초 더) 걸려, 일어나자마자 또 맞는 일이 되풀이되지는 않습니다.
-- 그래픽: 늦은 오후의 낮은 해가 구름 뒤에서 빛나고(번지는 햇무리와 천천히 도는 햇살), 겹겹의 산맥이 아지랑이 속으로 멀어집니다(가장 먼 산은 눈 덮인 봉우리). 바퀴 자국과 자갈이 박힌 흙길, 꽃이 핀 풀밭, 흙의 층과 뿌리·돌이 드러난 길 앞 비탈, 바람에 흔들리는 나무와 풀 포기, 밧줄로 묶은 기둥에 등불이 달린 나무 발판, 돌 블록과 비늘 기와 지붕, 활짝 열린 문짝과 횃불, 펄럭이는 깃발과 휘장이 있는 성을 모두 코드로 그렸습니다. 산적은 수놓은 옷, 망토, 눈썹과 콧수염, 보석 박힌 왕관과 쇠징 박힌 몽둥이를 갖췄고, 달리고 뛰고 내려앉을 때 흙먼지가 일어납니다. 돈주머니는 삼베 자루에 금화가 비치고 반짝이며, 폭탄은 심지에서 불꽃이 튀고, 수레와 황소도 더 자세해졌습니다. 터지면 불길·연기·파편이 튀고, 금화를 주우면 반짝임이 퍼집니다. 그래픽 카드가 있는 기기에서는 길·돌·나무에 입체감, 횃불과 폭발의 빛, 부드러운 그림자, 더 많은 풀이 더해집니다.
+- 기절과 무적: 검에 맞거나 폭탄에 휘말려 쓰러져 있는 동안만 다시 맞지 않고 폭탄에도 휘말리지 않습니다. 일어나면 곧바로 다시 맞을 수 있습니다(일어난 뒤 무적 시간 없음). 대신 상대를 친 쪽은 검을 다시 휘두르기까지 2초 남짓(상대가 쓰러져 있는 1.6초보다 0.45초 더) 걸려, 일어나자마자 또 맞는 일이 되풀이되지는 않습니다.
+- 그래픽: 늦은 오후의 낮은 해가 구름 뒤에서 빛나고(번지는 햇무리와 천천히 도는 햇살), 겹겹의 산맥이 아지랑이 속으로 멀어집니다(가장 먼 산은 눈 덮인 봉우리). 바퀴 자국과 자갈이 박힌 흙길, 꽃이 핀 풀밭, 흙의 층과 뿌리·돌이 드러난 길 앞 비탈, 바람에 흔들리는 나무와 풀 포기, 밧줄로 묶은 기둥에 등불이 달린 나무 발판, 돌 블록과 비늘 기와 지붕, 활짝 열린 문짝과 횃불, 펄럭이는 깃발과 휘장이 있는 성을 모두 코드로 그렸습니다. 산적은 수놓은 옷, 망토, 눈썹과 콧수염, 보석 박힌 왕관과 쇠징 박힌 검을 갖췄고, 달리고 뛰고 내려앉을 때 흙먼지가 일어납니다. 돈주머니는 삼베 자루에 금화가 비치고 반짝이며, 폭탄은 심지에서 불꽃이 튀고, 수레와 황소도 더 자세해졌습니다. 터지면 불길·연기·파편이 튀고, 금화를 주우면 반짝임이 퍼집니다. 그래픽 카드가 있는 기기에서는 길·돌·나무에 입체감, 횃불과 폭발의 빛, 부드러운 그림자, 더 많은 풀이 더해집니다.

diff --git a/ROADMAP.md b/ROADMAP.md
@@ -469,6 +469,7 @@
 - [x] 금화 쟁탈전 그래픽 업그레이드: 오후의 하늘·산맥·구름, 흙길·비탈 단면·바람에 흔들리는 나무와 풀, 돌 성·횃불·깃발, 자세한 산적(망토·흙먼지·착지 눌림), 돈주머니·폭탄·수레, 불길·연기·반짝임 효과
 - [x] 금화 쟁탈전: 컴퓨터가 줍기보다 내 자루 털기를 먼저(모든 레벨), 돈주머니 금화 10, 하늘에서 5~9초에 하나씩
 - [x] 중력 축구: 천장 없앰(화면 위로 날아간 공 표시), 더 느리게(처음의 62%), 점프해도 공간이 남는 높은 골대(3.7)
+- [x] 금화 쟁탈전: 몽둥이를 검으로(금빛 손잡이·코등이, 은빛 칼날, 쇳소리)
 - [x] 슬롯머신: 클릭·터치로는 레버만 기계를 돌림(다른 곳을 눌러도 레버가 움직이던 문제), 스핀 버튼은 멈춤 버튼으로
 - [x] 탁구: 컴퓨터 라켓 속도·반응 빠르게(쉬움 2.0, 보통 2.6, 어려움 3.4 m/s), 옆으로 치거나 휜 공도 받아 냄
 - [x] 낚시: 시간 제한과 난이도 없앰(점수가 계속 쌓임, 호수의 하루는 6분마다 돎), 바다 낚시는 흔들리는 낚싯배 위에서
